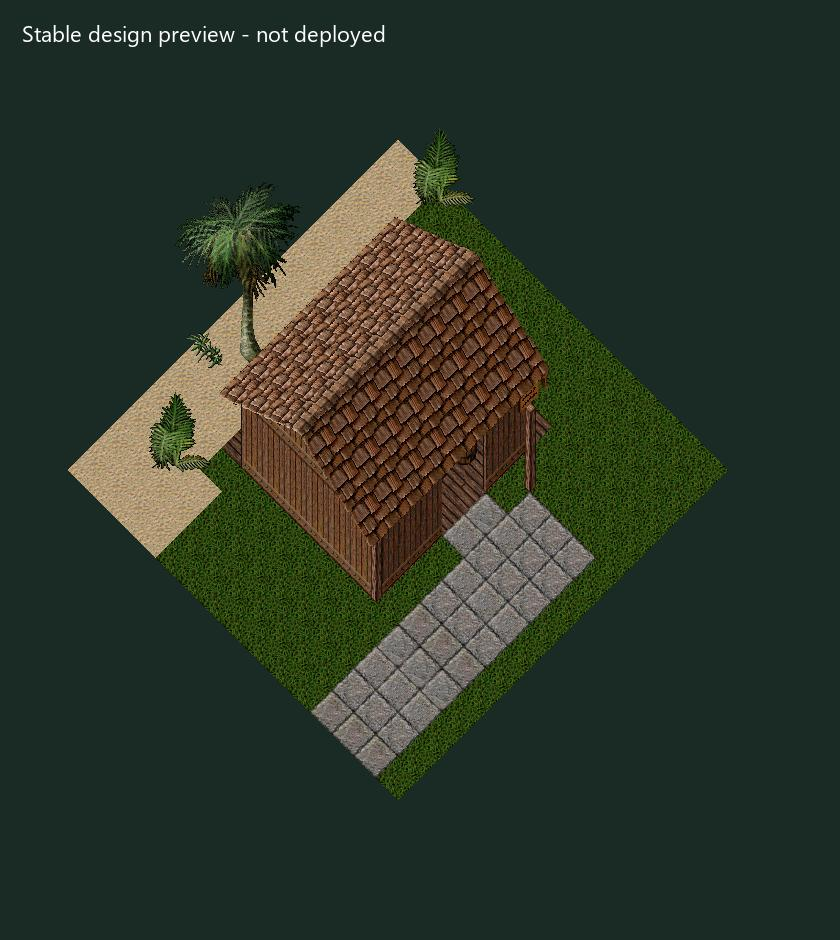
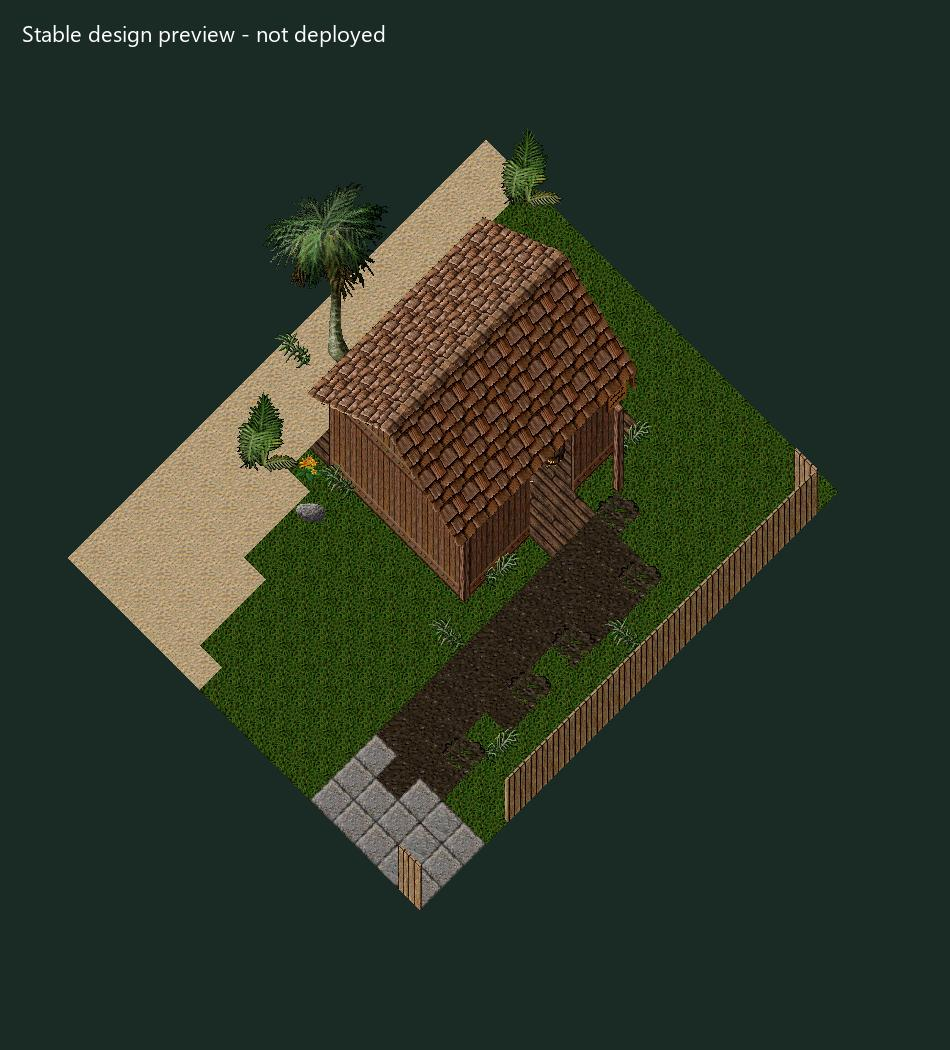
Give stable approach worn earth shoulders and restrained planting

Changed region(s): [[0.0619, 0.1234, 0.8976, 0.8638], [0.031, 0.0309, 0.4643, 0.0617]]

diff --git a/tools/plan-corsair-stable.py b/tools/plan-corsair-stable.py
@@ -11,9 +11,24 @@ def add(name, art, x, y, z=0):
 # aligned with the settlement path. Timber walls match the approved chandlery.
 for x in range(38,45):
     for y in range(91,99):
-        add('stable deck',0x4A9+(x+y)%4,x,y)
-for x in (45,46):
-    for y in (94,95): add('entrance paving',0x519+(x+y)%4,x,y)
+        add('stable deck',0x4AB if (x,y) in ((42,94),(43,95)) else 0x4A9,x,y)
+# A timber threshold keeps the doorway dry. The stable lane is packed earth,
+# joining the paved main route at y=105. Its shoulders vary with foot traffic.
+for y in (94,95): add('timber threshold',0x4A9,45,y)
+lane={(46,y) for y in range(94,105)} | {(47,y) for y in range(94,105)}
+lane.update((48,y) for y in (95,96,100,103,104))
+for x,y in sorted(lane): add('stable dirt lane',0x31F4+(x*3+y)%4,x,y)
+for x,y in ((46,93),(48,94),(48,97),(48,99),(48,102)):
+    add('worn dirt shoulder',0x914,x,y)
+for x,y in ((45,97),(45,100),(49,96),(49,101)):
+    add('lane grass',0xCAC if y%2 else 0xCAD,x,y)
+# Retain just two stones where the lane meets the town paving.
+for x,y in ((46,104),(48,104)): add('reused stepping stone',0x519,x,y)
+add('tracked straw',0xF35,43,94)
+add('foundation flowers',0xC85,38,99)
+add('foundation grasses',0xCAD,39,99)
+add('foundation stone',0x1364,39,100)
+add('signpost grass',0xCAC,45,91)
 for x in range(39,45):
     add('wall',0xE if x in (40,43) else 0x7,x,91)
     if x!=44: add('wall',0x7,x,98)
